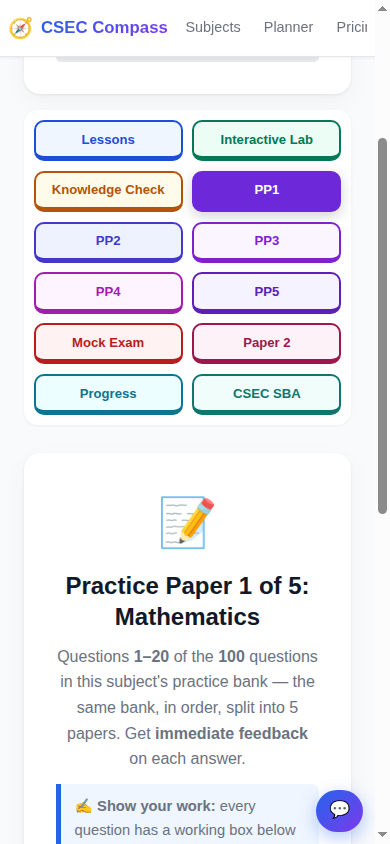
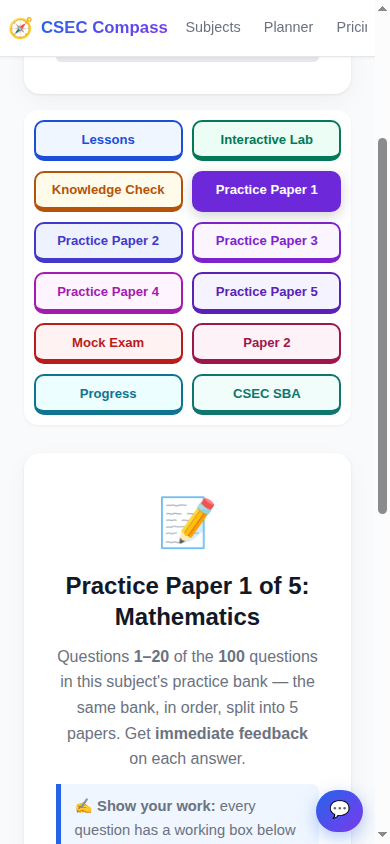
fix(practice): show the owner's full "Practice Paper n" wording on phones (359 px breakpoint)
Owner directive 2026-10-21 is that the visible tab label shortens to PP1…PP5
ONLY if the full wording truncates on a 390 px phone. Measured on a production
build: the full wording sits on ONE line at 430/390/375/360 px with the same
41 px tab height and the same 314 px, 6-row tab strip the short label produces,
and only wraps from 344 px down. The 560 px breakpoint was therefore firing
where it was not needed, showing the shortened fallback on the phone the owner
named.

- src/pages/SubjectPage.css: the short-label media query moves 560 px -> 359 px
  (the measured wrap point, verified both ways: 360 px shows the full wording,
  344 px shows the fallback), and the comment now carries the measurement.
- tools/check-practice-papers.mjs: the one breakpoint assertion becomes three —
  the full wording is what is displayed by default, the short label only below
  359 px, and the old 560 px query is gone. Red control: putting 560 px back
  fails exactly those two new assertions (220 passed, 2 failed); restoring 359 px
  is green (222 passed, 0 failed).

Evidence (frames in docs/screenshots/practice-papers/, all from a production
build of this tree):
- after-phone-tabs.png — 390 px. All five tabs read "Practice Paper 1" …
  "Practice Paper 5". Read-back: full-label span display block, short span none,
  each tab's aria-label the full "Practice Paper n", label on one line, tab 41 px,
  strip 314 px over 6 rows, nothing clipped. At 375 px and 360 px the same
[…]

diff --git a/src/pages/SubjectPage.css b/src/pages/SubjectPage.css
@@ -122,19 +122,23 @@
 .s-tab.active .s-tab-done {
   color: #ffffff;
 }
-/* The practice tabs (owner directive 2026-10-21). At five labels beginning
-   "Practice Paper", the full wording plus the eight other tabs is what wraps
-   awkwardly on a 390 px phone, so on a narrow screen the practice tabs show
-   their short label — PP1…PP5 — and the full "Practice Paper n" stays the
-   in-tab heading and the tab's accessible name (set in SubjectPage.jsx). The
-   two spans are always in the DOM; only one is ever displayed. */
+/* The practice tabs (owner directive 2026-10-21). The owner's wording is the
+   full "Practice Paper 1" … "Practice Paper 5"; the PP1…PP5 short label is the
+   contingency for a phone narrow enough to wrap it. Measured on a production
+   build (2026-10-22, dev-3): the full wording sits on ONE line at 430, 390,
+   375 and 360 px — the same 41 px tab height and the same 314 px tab strip the
+   short label produces — and wraps to two lines from 344 px down (56 px tabs).
+   So the short label is shown only below 359 px, where the wrap actually
+   starts. At every width the full "Practice Paper n" stays the in-tab heading
+   and the tab's accessible name (set in SubjectPage.jsx); both spans are always
+   in the DOM and only one is ever displayed. */
 .s-tab-label-short {
   display: none;
 }
 .s-tab-label-full {
   display: inline;
 }
-@media (max-width: 560px) {
+@media (max-width: 359px) {
   .s-tab-label-full {
     display: none;
   }
